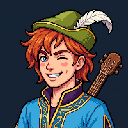
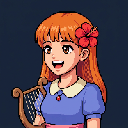
Replace Finch the bard with Marigold, a Marin-like singer: dress/sash/hibiscus/lyre-harp villager model, new portrait, dialogue updated

diff --git a/src/game/models.ts b/src/game/models.ts
@@ -717,9 +717,10 @@ export function buildProp(p: PropSpec): THREE.Group {
 // ---------------------------------------------------------------- villagers
 export interface VillagerLook {
   skin: string; hair: string; top: string; bottom: string; accent?: string;
-  hat?: 'none' | 'straw' | 'cap' | 'bandana' | 'kerchief' | 'feather';
+  hat?: 'none' | 'straw' | 'cap' | 'bandana' | 'kerchief' | 'feather' | 'flower';
   hairStyle?: 'short' | 'long' | 'bald' | 'bun' | 'beard';
-  scale?: number; kid?: boolean; item?: 'cane' | 'lute' | 'hoe' | 'broom' | 'basket';
+  scale?: number; kid?: boolean; item?: 'cane' | 'lute' | 'harp' | 'hoe' | 'broom' | 'basket';
+  dress?: boolean; sash?: string;
 }
 
 export const VILLAGER_LOOKS: Record<string, VillagerLook> = {
@@ -727,7 +728,7 @@ export const VILLAGER_LOOKS: Record<string, VillagerLook> = {
   shopkeeper: { skin: '#f3bd92', hair: '#4a2c14', top: '#e8e8e8', bottom: '#c82828', accent: '#f2c14e', hat: 'cap', hairStyle: 'short' },
   kid: { skin: '#f6c8a0', hair: '#f5cf46', top: '#ff8a3d', bottom: '#3a5fd0', hat: 'none', hairStyle: 'short', kid: true },
   granny: { skin: '#f0c4a0', hair: '#d8d8e0', top: '#2f8f5a', bottom: '#7a4f2a', hat: 'kerchief', hairStyle: 'bun', item: 'broom' },
-  bard: { skin: '#f3bd92', hair: '#c8432c', top: '#3a9ad0', bottom: '#7a2a80', accent: '#f2c14e', hat: 'feather', hairStyle: 'long', item: 'lute' },
+  bard: { skin: '#f6c8a0', hair: '#e0703a', top: '#6f86d6', bottom: '#6f86d6', accent: '#f2e6b0', hat: 'flower', hairStyle: 'long', item: 'harp', dress: true, sash: '#e85a9a' },
   farmer: { skin: '#e8a878', hair: '#4a2c14', top: '#8ad34a', bottom: '#6b4a2c', hat: 'straw', hairStyle: 'short', item: 'hoe' },
   innkeeper: { skin: '#f3bd92', hair: '#7a3a1a', top: '#c8862a', bottom: '#5a3a2c', accent: '#f6f1e6', hat: 'none', hairStyle: 'bun' },
   smith: { skin: '#d89868', hair: '#2a1a10', top: '#5a5a66', bottom: '#3a3a3a', accent: '#8a5a2b', hat: 'bandana', hairStyle: 'beard' },
@@ -748,11 +749,21 @@ export function buildVillager(look: VillagerLook): Humanoid {
   const legL = makeLeg(0.11, m.bottom, m.boot), legR = makeLeg(-0.11, m.bottom, m.boot);
   root.add(legL, legR);
   body.add(part(UNIT_BOX, m.top, [0, 0.58, 0], [0.5, 0.42, 0.3]));
-  body.add(part(UNIT_BOX, m.bottom, [0, 0.37, 0], [0.54, 0.12, 0.34]));
-  body.add(part(UNIT_BOX, m.acc, [0, 0.47, 0], [0.52, 0.05, 0.32]));
+  if (look.dress) {
+    // long flared skirt with a light hem band and a sash tied at the back
+    body.add(part(UNIT_BOX, m.bottom, [0, 0.3, 0], [0.6, 0.26, 0.4]));
+    body.add(part(UNIT_BOX, m.bottom, [0, 0.14, 0], [0.66, 0.1, 0.46]));
+    body.add(part(UNIT_BOX, m.acc, [0, 0.09, 0], [0.68, 0.05, 0.48]));
+    body.add(part(UNIT_BOX, m.acc, [0, 0.76, 0.14], [0.3, 0.06, 0.04])); // collar
+    if (look.sash) { const sm = toon(look.sash); body.add(part(UNIT_BOX, sm, [0, 0.47, 0], [0.54, 0.07, 0.34])); body.add(part(UNIT_BOX, sm, [0, 0.36, -0.2], [0.26, 0.28, 0.08])); body.add(part(UNIT_BOX, sm, [-0.1, 0.24, -0.22], [0.08, 0.28, 0.05])); body.add(part(UNIT_BOX, sm, [0.1, 0.24, -0.22], [0.08, 0.28, 0.05])); }
+  } else {
+    body.add(part(UNIT_BOX, m.bottom, [0, 0.37, 0], [0.54, 0.12, 0.34]));
+    body.add(part(UNIT_BOX, m.acc, [0, 0.47, 0], [0.52, 0.05, 0.32]));
+  }
   body.add(part(UNIT_BOX, m.skin, [0, 0.8, 0], [0.16, 0.08, 0.14]));
-  const { arm: armR, hand: handR } = makeArm(-0.3, m.top, m.skin);
-  const { arm: armL, hand: handL } = makeArm(0.3, m.top, m.skin);
+  const { arm: armR, hand: handR } = makeArm(-0.3, look.dress ? m.skin : m.top, m.skin);
+  const { arm: armL, hand: handL } = makeArm(0.3, look.dress ? m.skin : m.top, m.skin);
+  if (look.dress) { armR.add(part(UNIT_BOX, m.top, [0, 0.02, 0], [0.16, 0.14, 0.18])); armL.add(part(UNIT_BOX, m.top, [0, 0.02, 0], [0.16, 0.14, 0.18])); } // short puff sleeves
   body.add(armR, armL);
   const head = new THREE.Group(); head.position.set(0, 1.0, 0); body.add(head);
   head.add(part(UNIT_SPHERE, m.skin, [0, 0, 0], [0.64, 0.5, 0.52]));
@@ -772,11 +783,28 @@ export function buildVillager(look: VillagerLook): Humanoid {
     case 'kerchief': head.add(part(UNIT_HEMI, toon('#e04545'), [0, 0.04, -0.02], [0.72, 0.46, 0.62])); head.add(part(UNIT_BOX, toon('#e04545'), [0, -0.1, -0.3], [0.3, 0.3, 0.1])); break;
     case 'bandana': head.add(part(UNIT_CYL, toon('#e04545'), [0, 0.12, 0], [0.7, 0.1, 0.6])); break;
     case 'feather': head.add(part(UNIT_HEMI, toon('#2f8f5a'), [0, 0.1, 0], [0.66, 0.42, 0.58])); head.add(part(UNIT_BOX, toon('#f6f1e6'), [0.24, 0.32, -0.08], [0.06, 0.4, 0.12]).rotateZ(-0.5)); break;
+    case 'flower': { // red hibiscus over the right ear
+      const red = toon('#e83a3a'), yel = toon('#f8d848');
+      for (const a of [0, 1.26, 2.51, 3.77, 5.03]) head.add(part(UNIT_SPHERE, red, [0.3 + Math.cos(a) * 0.0, 0.06 + Math.sin(a) * 0.09, 0.02 + Math.cos(a) * 0.09], [0.06, 0.11, 0.11]));
+      head.add(part(UNIT_SPHERE, yel, [0.34, 0.06, 0.02], [0.05, 0.06, 0.06]));
+      head.add(part(UNIT_BOX, toon('#2f8f5a'), [0.3, -0.02, -0.08], [0.04, 0.06, 0.14]));
+      break;
+    }
   }
   // held item
   switch (look.item) {
     case 'cane': handR.add(part(UNIT_CYL, m.wood, [0, -0.25, 0.05], [0.05, 0.75, 0.05])); handR.add(part(UNIT_SPHERE, toon('#f2c14e'), [0, 0.1, 0.05], [0.12, 0.12, 0.12])); break;
     case 'lute': { const l = new THREE.Group(); l.position.set(0.3, 0.1, 0.22); l.rotation.set(0.3, 0, -0.9); l.add(part(UNIT_SPHERE, m.wood, [0, -0.1, 0], [0.34, 0.42, 0.12])); l.add(part(UNIT_BOX, toon('#5a3a1e'), [0, 0.28, 0.02], [0.08, 0.5, 0.05])); l.add(part(UNIT_CYL, toon('#2a1a10'), [0, -0.08, 0.06], [0.12, 0.02, 0.12]).rotateX(Math.PI / 2)); handL.add(l); break; }
+    case 'harp': { // small lyre-harp cradled in the left arm
+      const h = new THREE.Group(); h.position.set(0.26, 0.12, 0.2); h.rotation.set(0.2, 0.3, -0.5);
+      h.add(part(UNIT_BOX, m.wood, [0, -0.22, 0], [0.34, 0.08, 0.06]));                       // base
+      h.add(part(UNIT_BOX, m.wood, [-0.15, 0.02, 0], [0.06, 0.5, 0.06]));                       // left post
+      h.add(part(UNIT_BOX, m.wood, [0.15, 0.06, 0], [0.06, 0.58, 0.06]).rotateZ(-0.15));        // right post (curved)
+      h.add(part(UNIT_BOX, m.wood, [0, 0.28, 0], [0.34, 0.06, 0.06]));                          // yoke
+      for (const x of [-0.09, -0.03, 0.03, 0.09]) h.add(part(UNIT_BOX, toon('#f2c14e'), [x, 0.03, 0], [0.012, 0.44, 0.012]));
+      handL.add(h);
+      break;
+    }
     case 'hoe': handR.add(part(UNIT_CYL, m.wood, [0, 0.2, 0.05], [0.05, 1.3, 0.05])); handR.add(part(UNIT_BOX, toon('#8e8e88'), [0, 0.82, 0.16], [0.06, 0.06, 0.3])); break;
     case 'broom': handR.add(part(UNIT_CYL, m.wood, [0, -0.1, 0.05], [0.05, 1.1, 0.05])); handR.add(part(UNIT_CONE, toon('#e8c86a'), [0, -0.68, 0.05], [0.24, 0.3, 0.16]).rotateX(Math.PI)); break;
     case 'basket': handL.add(part(UNIT_CYL, toon('#c48b4f'), [0, -0.08, 0.1], [0.34, 0.24, 0.34])); break;

diff --git a/src/game/dialogue.ts b/src/game/dialogue.ts
@@ -59,7 +59,7 @@ export const NPC_TALK: Record<string, Talker> = {
       pages: [
         'You truly did it! ' + q.kills + ' knights sent back to rest. The road will breathe easier.',
         'Take this for your trouble - it was meant for the Queen\'s tithe, but she has no more use for coin.',
-        'If you would go further... the Crown was carried east, over the great river. Speak with the bard. He knows the old songs.',
+        'If you would go further... the Crown was carried east, over the great river. Speak with Marigold, the singer by the well. She knows the old songs.',
       ],
       onEnd: (qs, ctx) => { qs.shells = 'done'; ctx.reward(30); ctx.heal(); if (qs.bard === 'hidden') qs.bard = 'offered'; },
     } : {
@@ -71,27 +71,27 @@ export const NPC_TALK: Record<string, Talker> = {
 
   // ------------------------------------------------------------------ bard
   bard: (q, ctx) => {
-    const name = 'FINCH THE BARD', color = '#8fd6ff';
+    const name = 'MARIGOLD', color = '#ffb0c8';
     if (q.bard === 'hidden') return {
       name, color,
-      pages: ['La la laaa~ Oh! A listener! I\'m Finch. I know every song sung between here and the sea.', 'Most of them are about lost things. Sad trade, memory. Come back when you\'ve earned a story of your own.'],
+      pages: ['La la laaa~ Oh! A listener! I\'m Marigold. I know every song sung between here and the sea.', 'Most of them are about lost things. Sad trade, memory. Come back when you\'ve earned a story of your own.'],
     };
     if (q.bard === 'offered' || q.bard === 'active') {
       if (q.bard === 'offered') q.bard = 'active';
       if (ctx.rupees >= SONG_PRICE) return {
         name, color,
         pages: [
-          'The Song of the Amber Crown? For ' + SONG_PRICE + ' rupees I\'ll sing it true. ...Deal? Splendid!',
+          'The Ballad of the Amber Crown? For ' + SONG_PRICE + ' rupees I\'ll sing it true. ...Deal? Wonderful!',
           '~ Beneath the willow where the river bends, a bridge of oak the water tends... ~',
           '~ Across it marched the Queen\'s own gold, by hands of a knight whose heart grew cold... ~',
           '~ In a hollow of stone at the world\'s east edge, the Crown still burns on a mossy ledge... ~',
-          'The east cliffs, past the second bridge. That\'s where the songs say the Crown was hidden. Nobody who went there came back to correct me.',
+          'The east cliffs, past the second bridge. That\'s where the songs say the Crown was hidden. Nobody who went there came back to correct the words.',
         ],
         onEnd: (qs, c) => { if (c.spendRupees(SONG_PRICE)) { qs.bard = 'done'; qs.rupeesSpent += SONG_PRICE; } },
       };
       return { name, color, pages: ['A story worth hearing is worth ' + SONG_PRICE + ' rupees. You\'ve ' + ctx.rupees + '. Bushes in the meadow hide a coin or two, they say.'] };
     }
-    return { name, color, pages: ['~ On a mossy ledge the Crown still burns... ~', 'Bring it home, Aria, and I\'ll write a new verse with your name in it.'] };
+    return { name, color, pages: ['~ On a mossy ledge the Crown still burns... ~', 'Bring it home, Aria, and I\'ll write a new verse with your name in it. Promise.'] };
   },
 
   // ------------------------------------------------------------------ granny

diff --git a/src/game/entities.ts b/src/game/entities.ts
@@ -749,7 +749,7 @@ export class Npc {
     m.body.position.y = moving ? Math.abs(Math.sin(this.animT)) * 0.03 : Math.sin(this.t * 2) * 0.008; // idle breathing
     const id = this.spec.id;
     if (id === 'elder') { m.armR.rotation.set(0.35, 0, 0.1); m.armL.rotation.set(0.15, 0, -0.1); m.body.rotation.x = 0.12; }
-    else if (id === 'bard') { m.armL.rotation.set(-0.9, 0.3, -0.5); m.armR.rotation.set(-0.6 + Math.sin(this.t * 7) * 0.12, -0.5, 0.4); m.head.rotation.z = Math.sin(this.t * 2) * 0.12; }
+    else if (id === 'bard') { m.armL.rotation.set(-1.0, 0.2, -0.45); m.armR.rotation.set(-0.75 + Math.sin(this.t * 7) * 0.1, -0.45, 0.35); m.head.rotation.z = Math.sin(this.t * 2) * 0.1; m.body.position.y += Math.abs(Math.sin(this.t * 2)) * 0.015; }
     else if (id === 'granny') { m.armR.rotation.set(0.5 + Math.sin(this.t * 3) * 0.25, 0, 0.15); m.armL.rotation.set(0.2, 0, -0.1); m.body.rotation.x = 0.18; }
     else if (id === 'farmer') { m.armR.rotation.set(moving ? -sw * 0.3 : -0.4 + Math.abs(Math.sin(this.t * 2.5)) * 0.8, 0, 0.1); m.armL.rotation.set(sw * 0.3, 0, -0.1); }
     else if (id === 'kid') { m.armL.rotation.set(-sw * 0.6 - 0.1, 0, -0.35); m.armR.rotation.set(sw * 0.6 - 0.1, 0, 0.35); m.body.position.y += moving ? 0 : Math.abs(Math.sin(this.t * 4)) * 0.03; }
